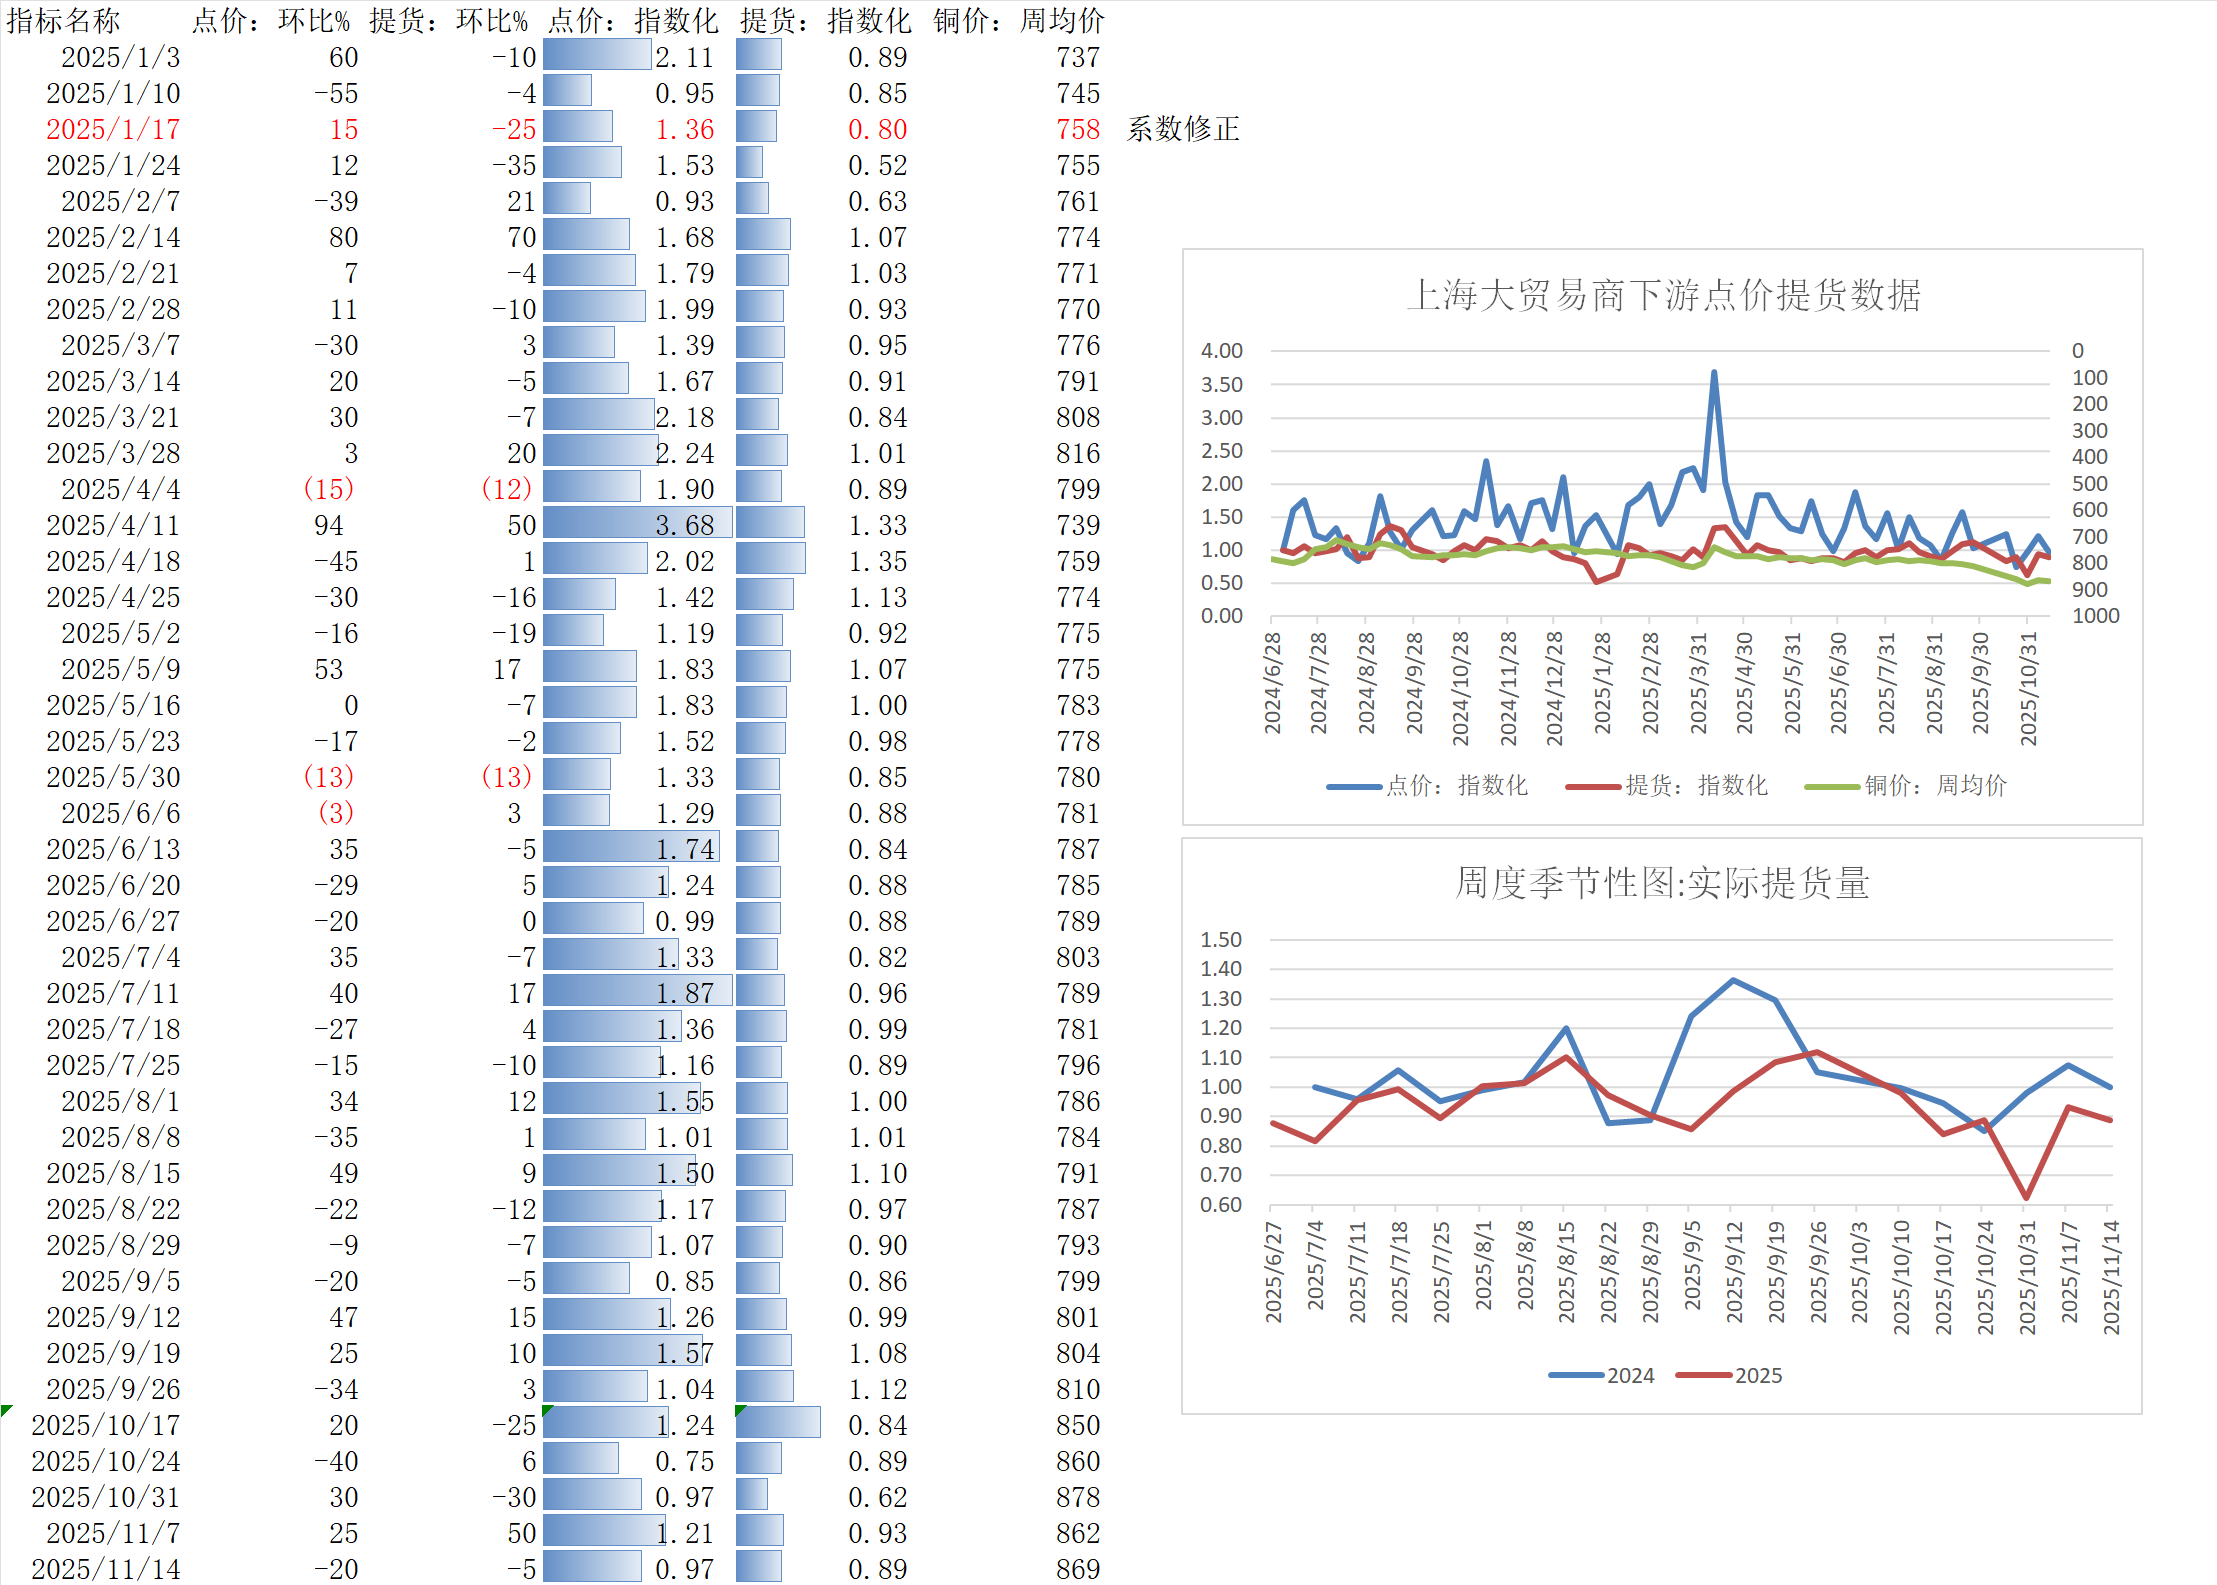
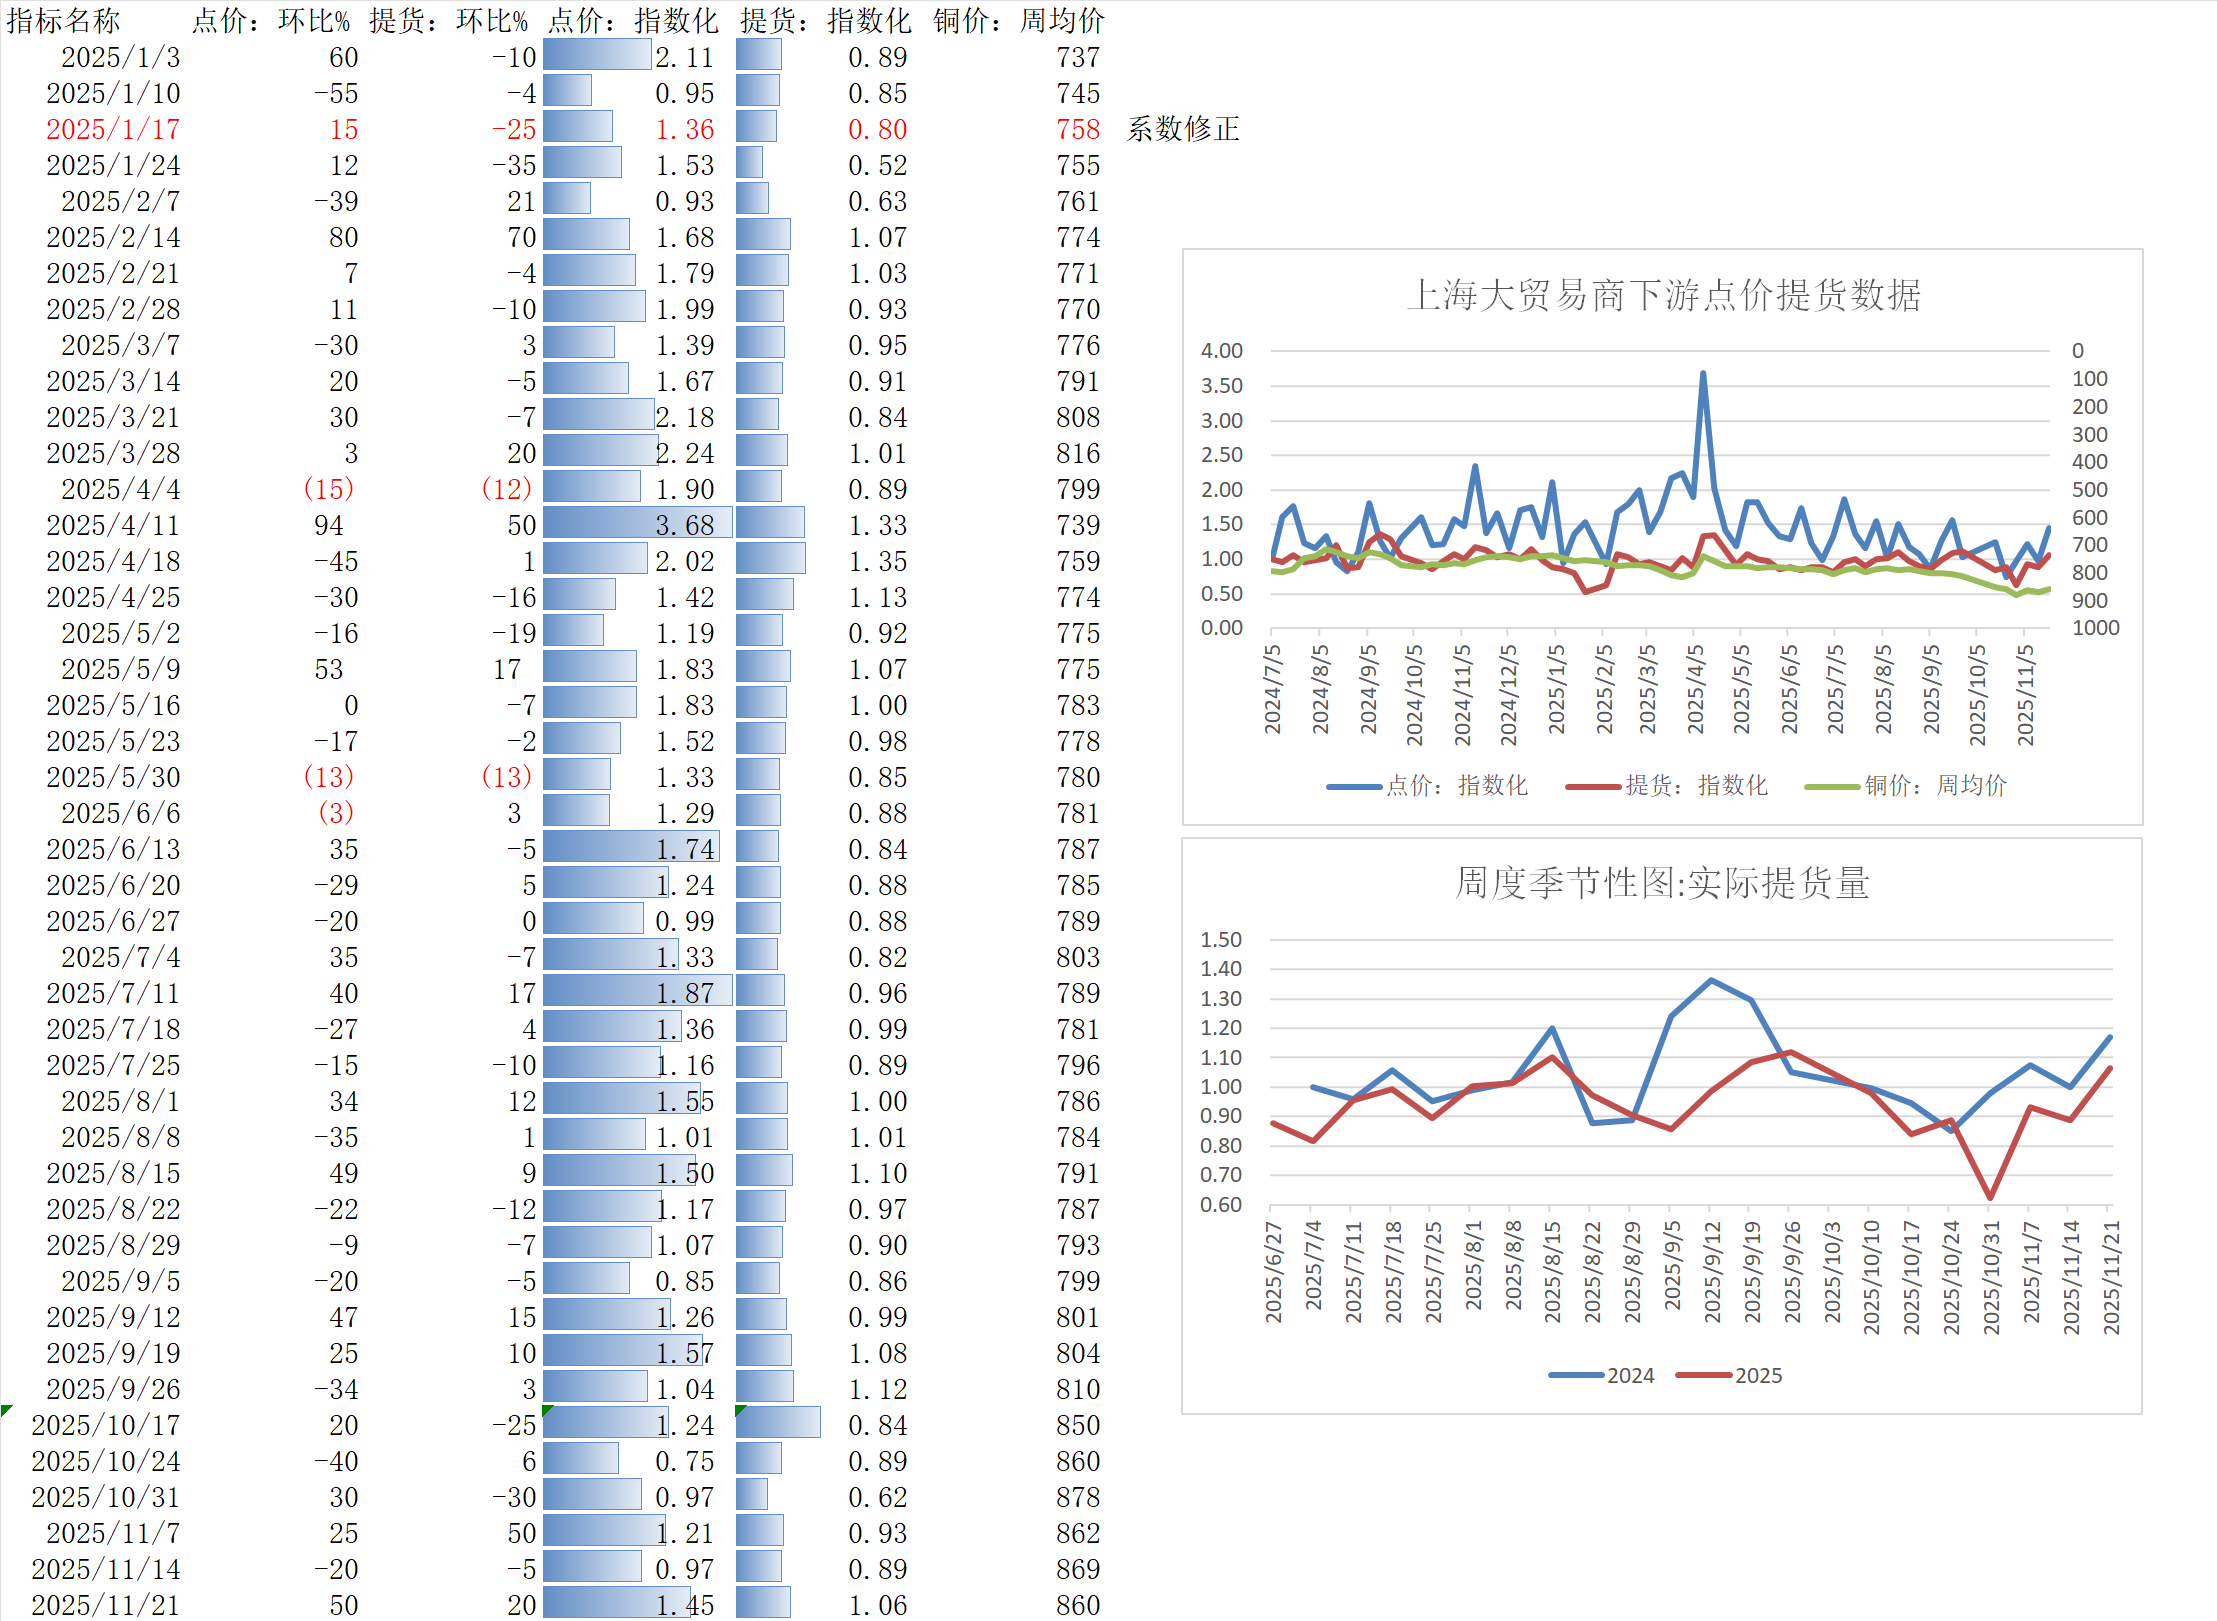
LAPTOP-KRS16UJL 2025-11-23:22:31:40

diff --git a/铜市场分析20251116.md b/铜市场分析20251116.md
@@ -5,11 +5,11 @@
 
 -<font size = 4> 策略推荐：逢低做多85000附近建仓，交易Q4铜精矿减产传导到冶炼端的预期。<font color = red>五锐周度点价提货环比-20%，-5%，提货数据回到正常偏低水平。</font>
 - <font size = 4>周度主要变化简要：本周国内微观数据中性，全球显性库存+32k，CMX库存增幅维持高速（+22k），LME平衡（+19k），中国区-7k，**其中LME交仓预期内（滞后指标），国内去库提现下游拿货改善。**
-- **1. 精炼端：本周洋山铜溢价+2至+46美金。**
-- - 库存：<font color = red>中国区库存环比-4k，符合季节性。</font>
-- - 精铜杆开工：<font color = red>开工率环比+4.9%至66.9%，同比-15%，同比降幅维持年内高位。</font>
+- **1. 精炼端：本周洋山铜溢价+4至+50美金。**
+- - 库存：<font color = red>中国区库存环比-7k，符合季节性。</font>
+- - 精铜杆开工：<font color = red>开工率环比+3.2%至70.1%，同比-14.3%，同比降幅维持年内高位。</font>
 - - **废铜杆开工：**湖北废铜杆企业开工率-2.1%至40.9%，处于中性区间，两杆差+440至1810，高于1200平衡线。
-- - **电缆企业订单：<font color = red>**根据SMM调研，电缆企业开工率环比+0.9%至64.4%，同比-24。7%，显著负增长。</font>
+- - **电缆企业订单：<font color = red>**根据SMM调研，电缆企业开工率环比+1.3%至65.7%，同比-24.5%，显著负增长。</font>
 - - **进口铜**：10月海关进口低于预期，1-9铜材表消+2%。
 - - **国产铜**：**国内产量9、10月因废料影响环比共减8w，11、12有增产预期。
 - - **海外基金持仓：**上周LME净多持仓-1k至+61k。
